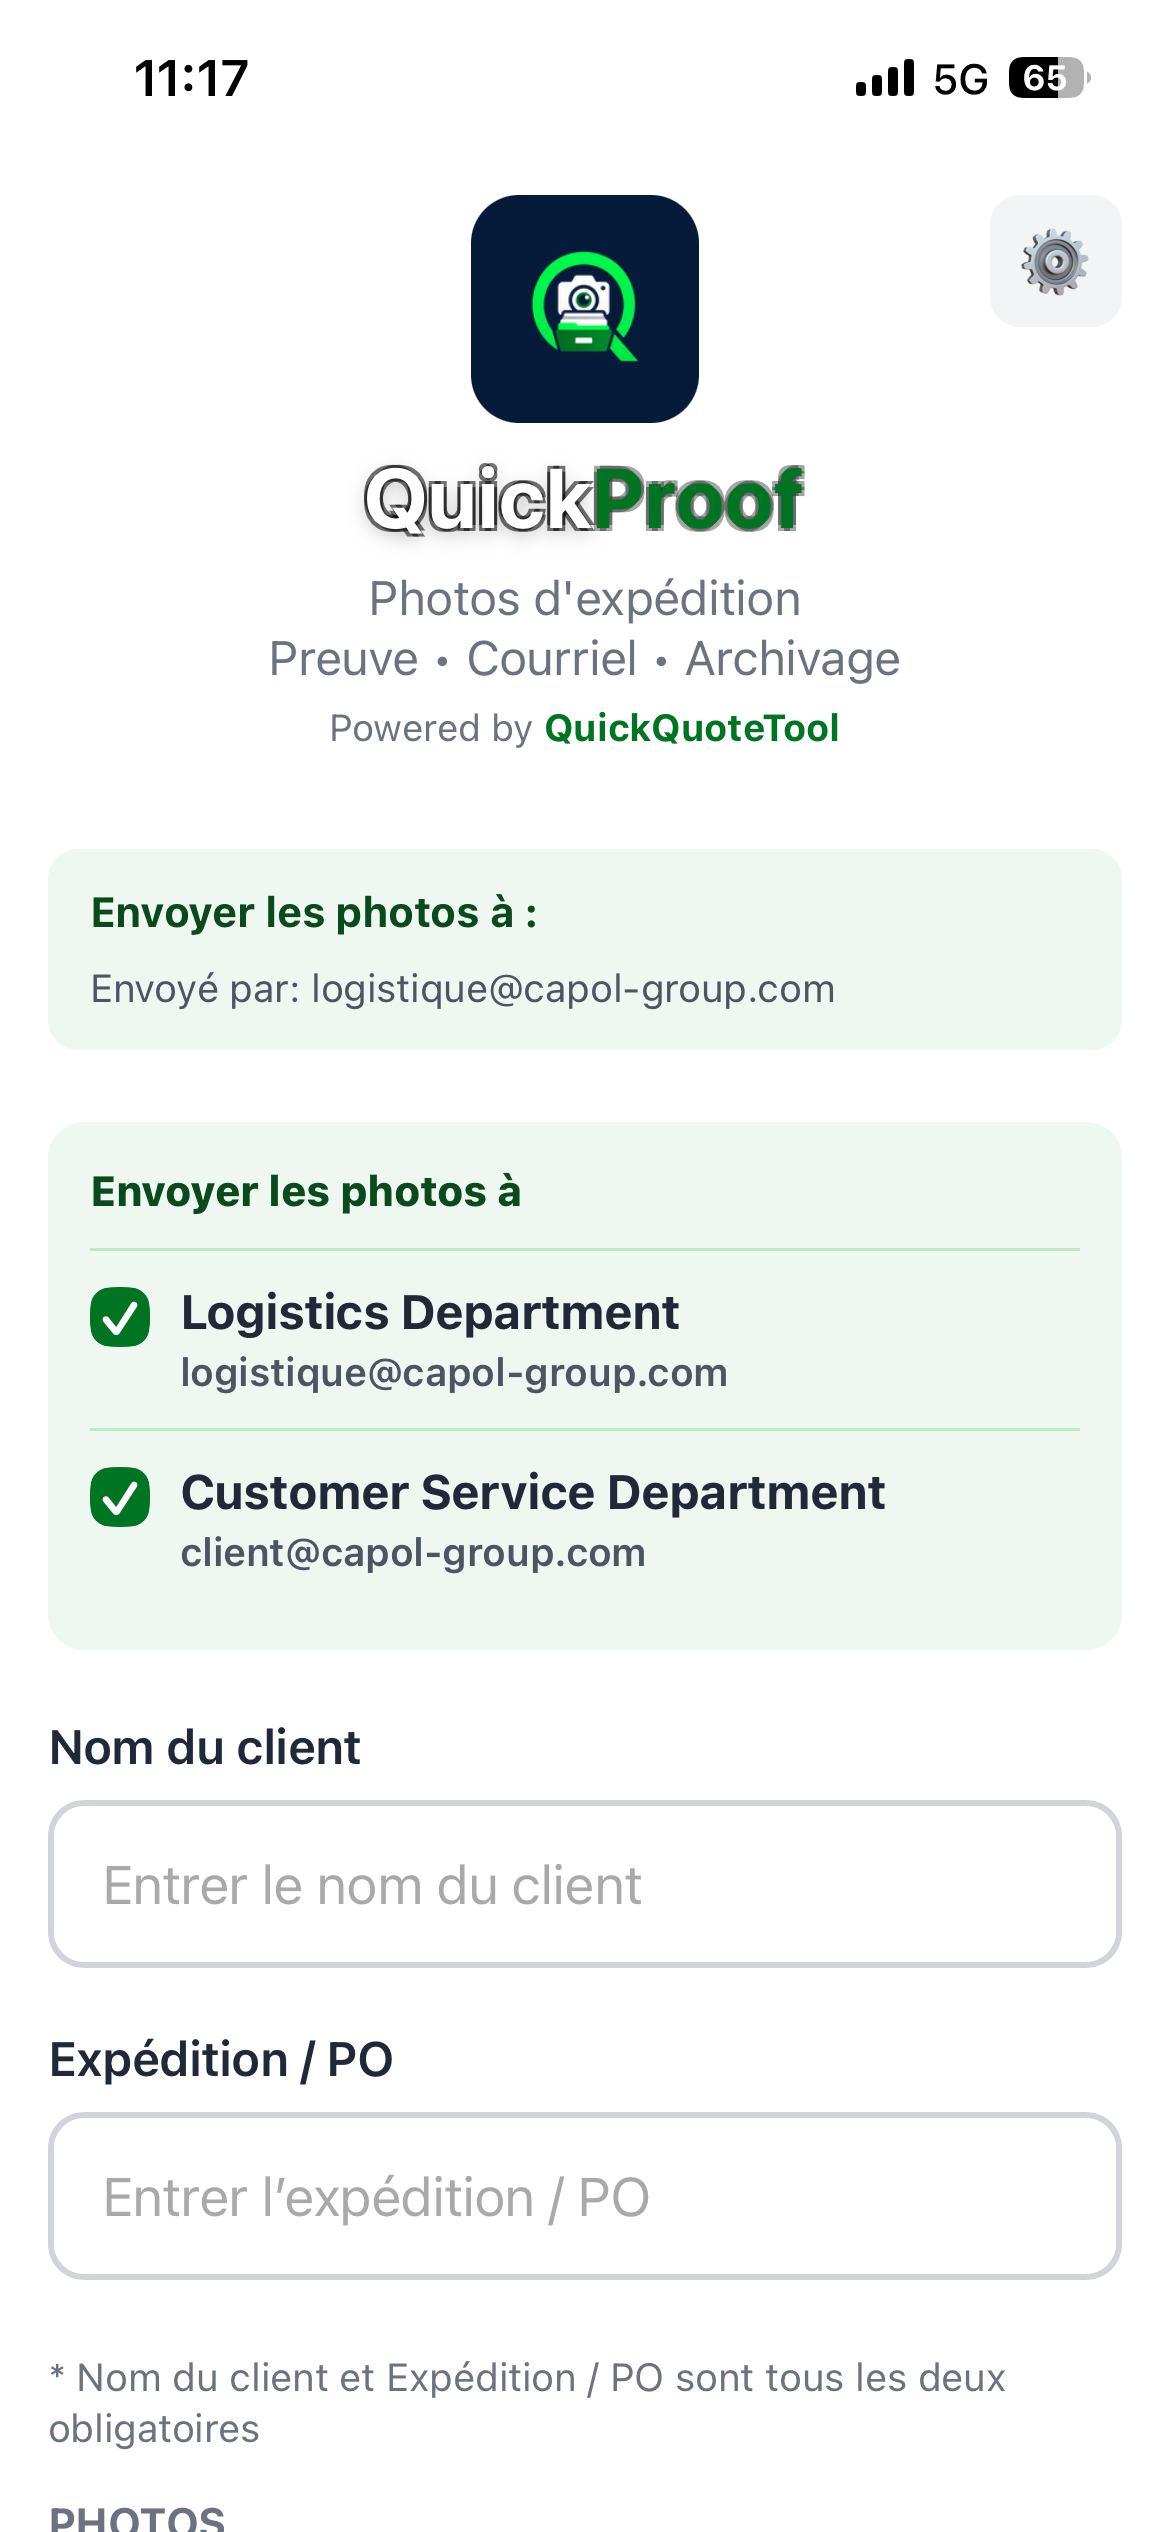
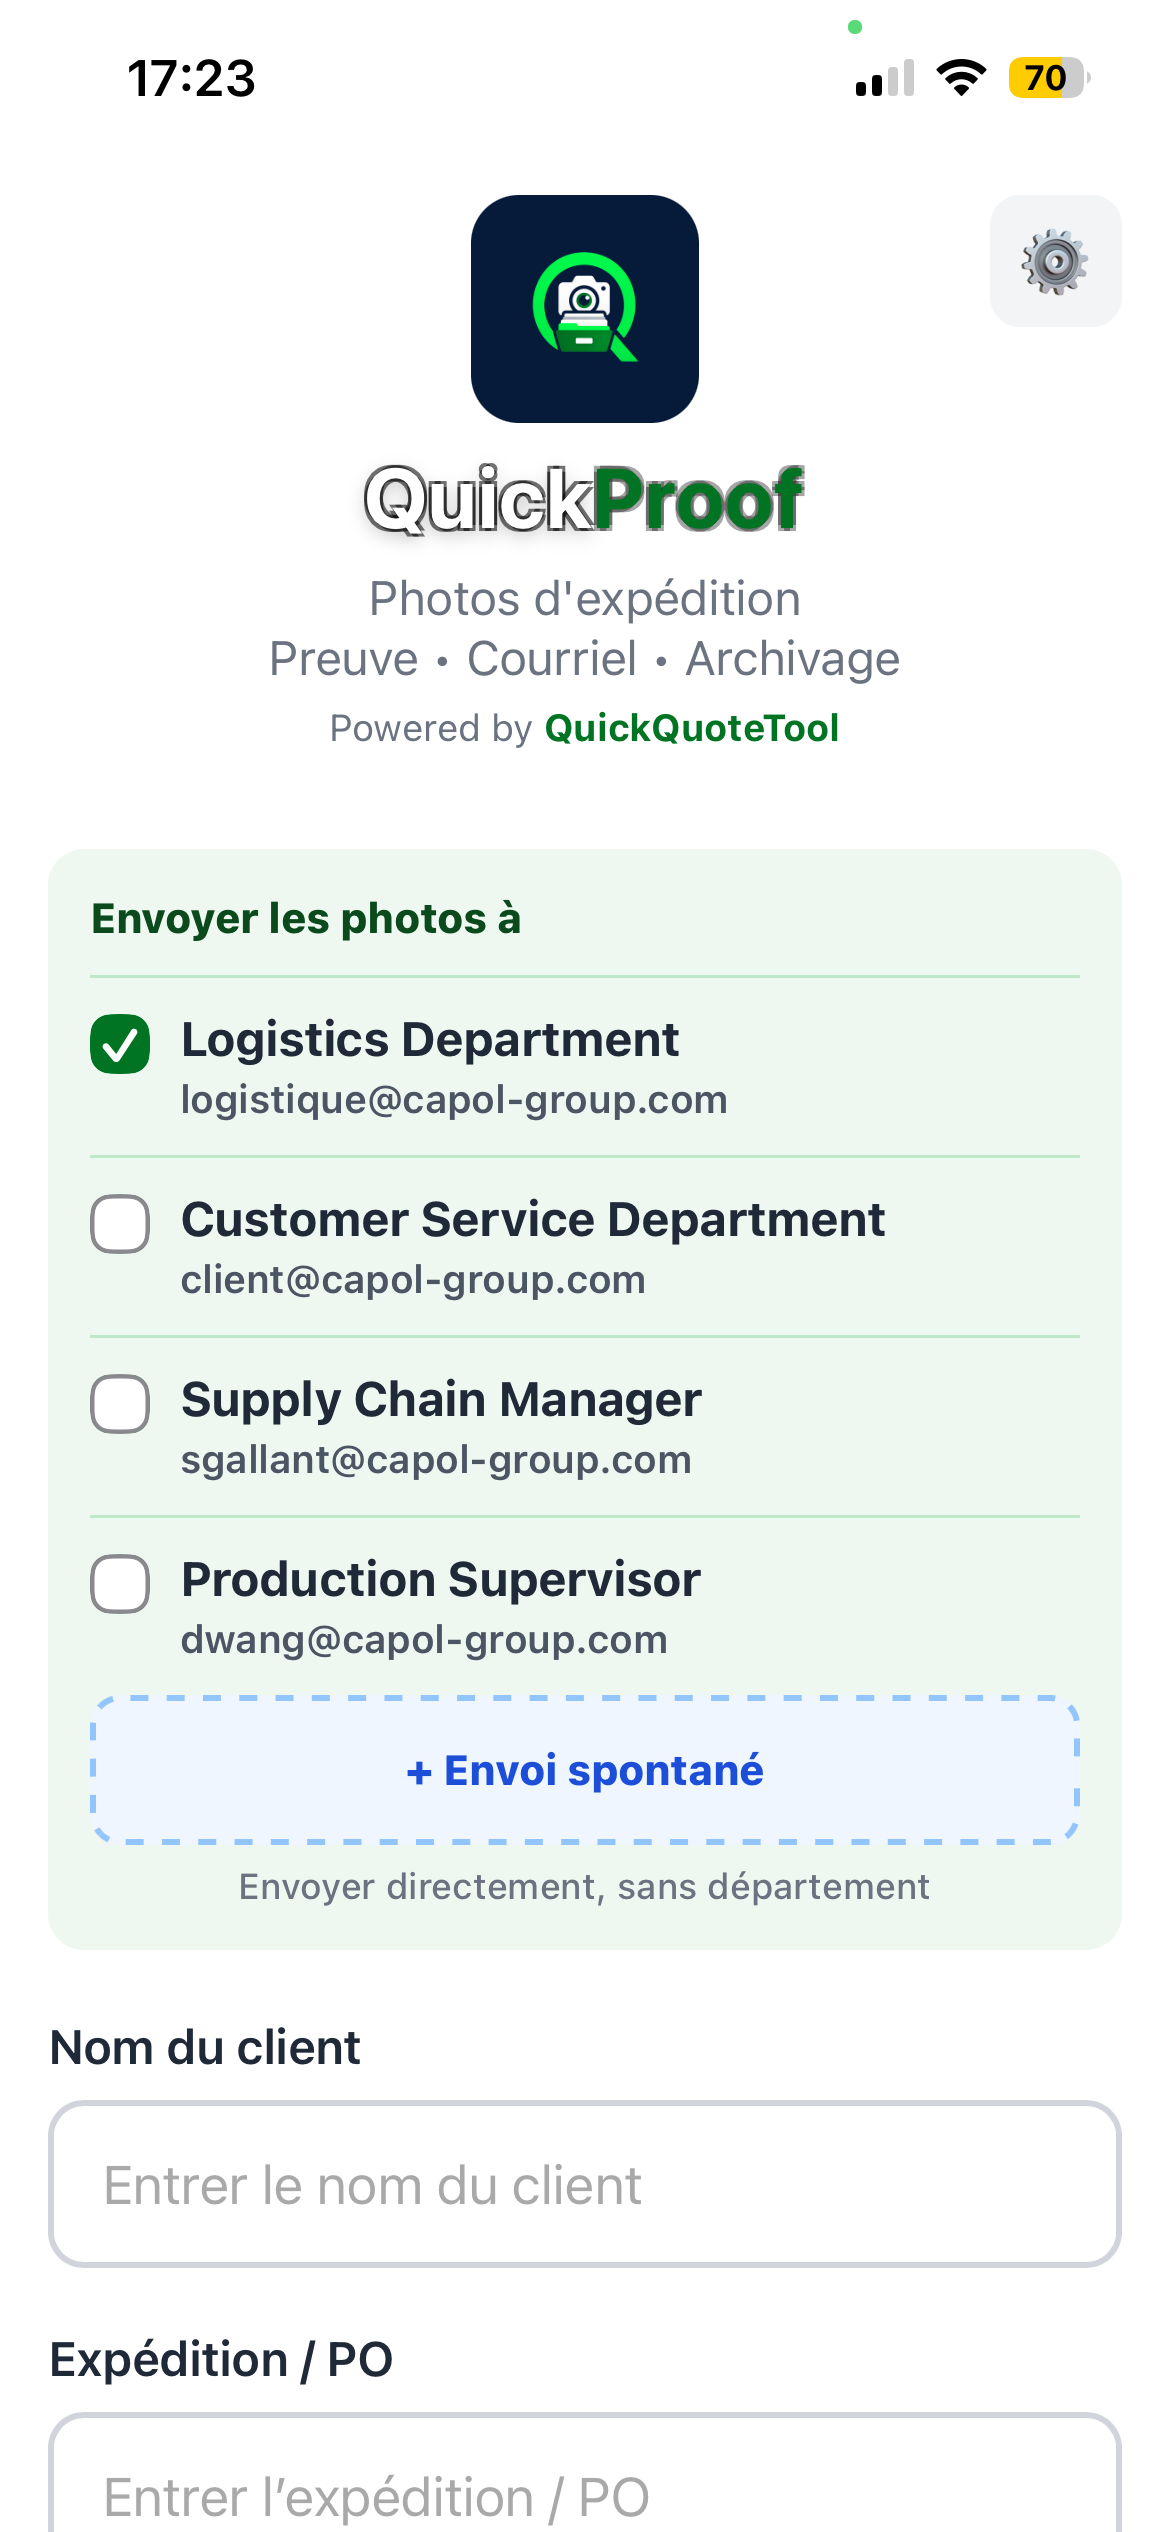
Add submission: QuickProof

diff --git a/cycle2/xcoder2088/README.md b/cycle2/xcoder2088/README.md
@@ -1,6 +1,6 @@
-# Quick proof nim tip jar
+# QuickProof
 
-> Tip the tools you use every day — one tap, one NIM.
+> Snap it, prove it, send it."
 
 <img src="icon.png" alt="App icon" width="128">
 
@@ -11,29 +11,30 @@
 | Team name | _Not provided — optional_ |
 | Team members | _Not provided — optional_ |
 | X account | _Not provided — optional_ |
-| Contact email | f.bradette@outlook.com |
+| Heard about it via | google |
+| Contact email | xcoder@outlook.fr |
 | GitHub login | @xcoder2088 |
-| Submitted at | 2026-08-24T18:34:56.160Z |
+| Submitted at | 2026-09-08T21:31:05.996Z |
 
 ## Links
 
 | Link | URL |
 | --- | --- |
 | Repo | [https://github.com/xcoder2088/nimiq-quick-proof-tips-jar](<https://github.com/xcoder2088/nimiq-quick-proof-tips-jar>) |
-| Demo | [https://shipping.quickquotetool.ca/](<https://shipping.quickquotetool.ca/>) |
-| Video | [https://youtube.com/shorts/S_-yqUt2PhM?si=sT_SjDs40Wtr_Zzt](<https://youtube.com/shorts/S_-yqUt2PhM?si=sT_SjDs40Wtr_Zzt>) |
+| Demo | [https://quickquotetool.ca/static/Quick-Shipping-Tool-QR-FR-EN-Description.pdf](<https://quickquotetool.ca/static/Quick-Shipping-Tool-QR-FR-EN-Description.pdf>) |
+| Video | [https://youtube.com/shorts/PcpCcX2yg_A?feature=share](<https://youtube.com/shorts/PcpCcX2yg_A?feature=share>) |
+| Skool post | [https://www.skool.com/miniappscompetition/new-in-quickproof?p=6476e23f](<https://www.skool.com/miniappscompetition/new-in-quickproof?p=6476e23f>) |
+| Social post | [https://www.linkedin.com/posts/activity-7502103289442746368-vUl6?utm_source=share&utm_medium=member_ios&rcm=ACoAAD8zwykBfzENVFhHUpgJ7EPvyRe7dMSQuXg](<https://www.linkedin.com/posts/activity-7502103289442746368-vUl6?utm_source=share&utm_medium=member_ios&rcm=ACoAAD8zwykBfzENVFhHUpgJ7EPvyRe7dMSQuXg>) |
 
 ## Description
 
-NIM Tip Jar lets users of QuickProof — a free shipment-photo tool for logistics teams — send a small NIM tip to support the developer, right from the app they already use daily.
+quick-proof-tips-jar is part of QuickProof lets shipping and logistics photograph packages at delivery and instantly email that proof — organized by customer and shipment number. Built for drivers and warehouse staff who need a fast, no-clutter way to document deliveries."
 
 ## Builder story
 
-I run QuickQuoteTool.ca, a FedEx shipping rate tool, and kept running into the same problem: shipment disputes and "where's my package" questions that a simple photo at drop-off would have solved instantly. So I built QuickProof — a fast way for logistics teams to snap a photo and send it straight to email, no app clutter, no friction.
+"QuickProof came out of a real problem: packages were arriving damaged at our customers' doors, and they assumed we'd shipped them in bad condition to begin with. Without a photo taken at shipping time, there was no way to prove the package was intact when it left our hands — every case turned into a back-and-forth dispute with no clear answer.
 
-It's used daily by people with zero interest in crypto, which made adding NIM an interesting challenge: how do you bring it into a product without making it feel like a "crypto app" bolted on? The answer was to keep it quiet. The tip jar only shows up at meaningful moments — the first successful shipment, then every 10th one after that — and PayPal sits right next to NIM so the feature works whether someone's into Nimiq or not. Settings always has both options too, for anyone who wants to come back later.
-
-Building the Mini App as its own open-source repo, separate from QuickProof's private codebase, meant thinking through a real integration: actual transactions, real UI, a real fallback for people opening it outside Nimiq Pay. It's been a good way to see what it actually takes to bring Nimiq into a product that already has daily users, not a demo built from scratch.
+QuickProof fixes that in one step: a photo at pickup or delivery, emailed instantly with the date, customer, and PO number. No more scrambling to prove the damage happened in transit, not on our end. Built to be fast enough to actually use on every shipment, not just the ones that go wrong."
 
 ## Thumbnail
 
